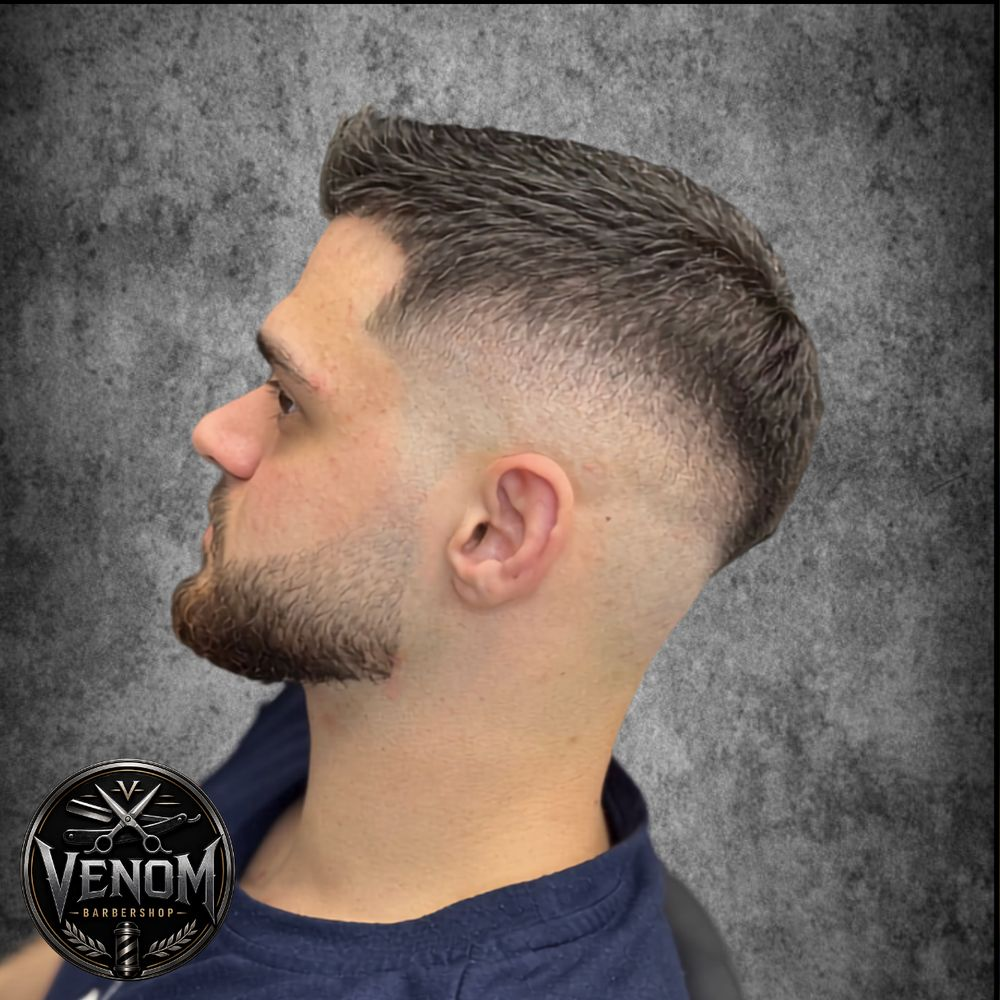
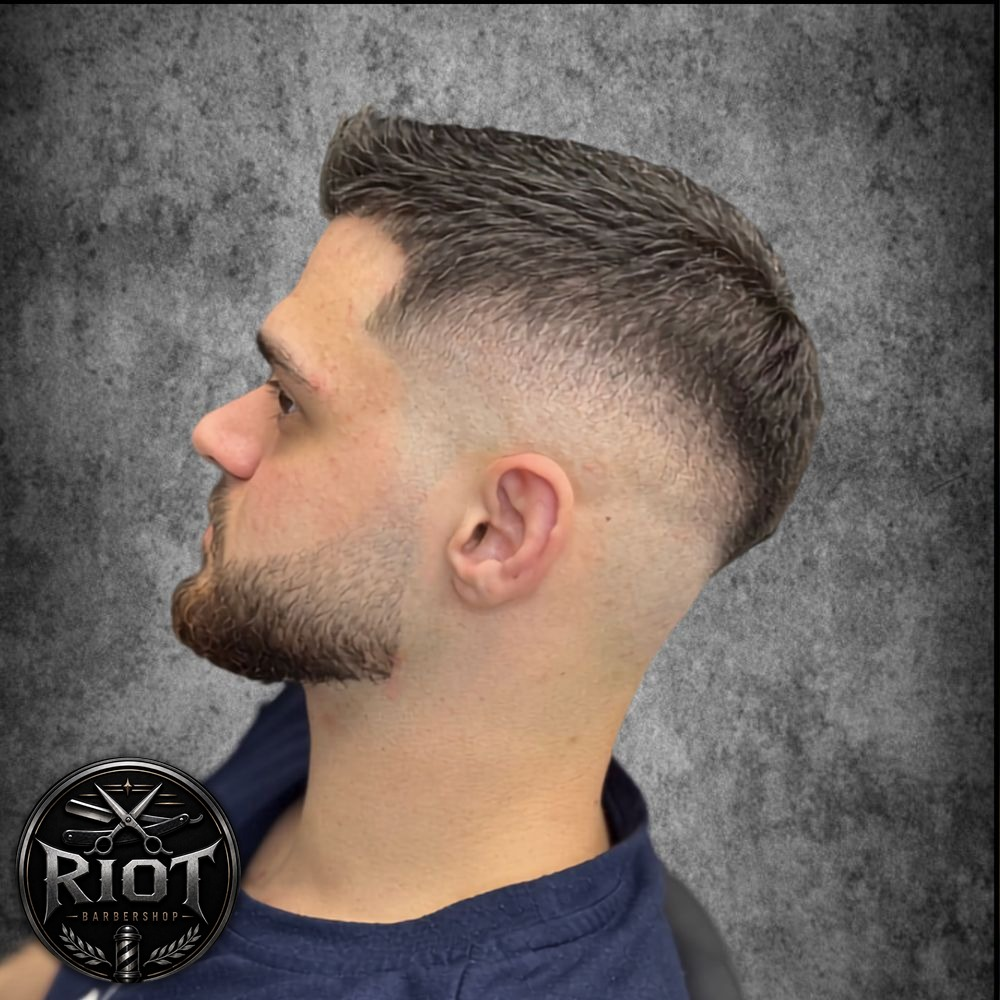
Galéria és motívum: VENOM-embléma cseréje RIOT-ra
A hat galériafotóba beégetett régi embléma helyére a RIOT-logó került,
a díszítő olló-motívum "V" monogramja helyére a logó csillaga.
A képhivatkozások ?v=2 jelölést kaptak, hogy a böngészők ne a
gyorsítótárazott régi képeket mutassák.

Changed region(s): [[0.0, 0.744, 0.248, 0.992]]

diff --git a/index.html b/index.html
@@ -6,13 +6,13 @@
 <title>RIOT Barbershop — Férfi fodrászat, Szeged</title>
 <meta name="description" content="RIOT Barbershop — férfi fodrászat Szegeden. Éles fade-ek, precíz szakállformázás, klasszikus borotválás. Kizárólag időpontfoglalással.">
 <meta name="theme-color" content="#050609">
-<link rel="icon" type="image/png" sizes="32x32" href="images/favicon-32.png">
-<link rel="icon" type="image/png" sizes="192x192" href="images/favicon-192.png">
-<link rel="apple-touch-icon" href="images/apple-touch-icon.png">
+<link rel="icon" type="image/png" sizes="32x32" href="images/favicon-32.png?v=2">
+<link rel="icon" type="image/png" sizes="192x192" href="images/favicon-192.png?v=2">
+<link rel="apple-touch-icon" href="images/apple-touch-icon.png?v=2">
 <meta property="og:type" content="website">
 <meta property="og:title" content="RIOT Barbershop — Férfi fodrászat, Szeged">
 <meta property="og:description" content="Éles fade-ek, precíz szakállmunka, klasszikus borotválás. Kizárólag időpontfoglalással.">
-<meta property="og:image" content="images/og.jpg">
+<meta property="og:image" content="images/og.jpg?v=2">
 <!-- Élesítéskor az og:image legyen abszolút URL (pl. https://domain.hu/images/og.jpg) -->
 <meta name="twitter:card" content="summary_large_image">
 <link rel="preconnect" href="https://fonts.googleapis.com">
@@ -494,7 +494,7 @@
     <a href="#arlista">Árlista</a>
   </nav>
   <a class="brand" href="#" aria-label="Vissza a tetejére — RIOT Barbershop">
-    <img src="images/logo.png" alt="" width="640" height="640">
+    <img src="images/logo.png?v=2" alt="" width="640" height="640">
   </a>
   <nav class="topnav nav-r" aria-label="Menü (jobb)">
     <a href="#galeria">Galéria</a>
@@ -518,7 +518,7 @@
   <div class="face-flare" aria-hidden="true"></div>
   <img class="venom-face" src="images/riot-face.png" alt="" aria-hidden="true" width="390" height="462">
   <div class="emblem">
-    <img src="images/logo.png" alt="RIOT Barbershop embléma" width="640" height="640">
+    <img src="images/logo.png?v=2" alt="RIOT Barbershop embléma" width="640" height="640">
   </div>
   <div class="kicker" lang="en">We are</div>
   <h1 class="title" data-text="RIOT">RIOT</h1>
@@ -545,7 +545,7 @@
     <div style="text-align:center">
       <div class="orn" aria-hidden="true">
         <span class="orn-rule"></span>
-        <img class="orn-mark" src="images/motif-tools.png" alt="" width="341" height="156" loading="lazy">
+        <img class="orn-mark" src="images/motif-tools.png?v=2" alt="" width="341" height="156" loading="lazy">
         <span class="orn-rule flip"></span>
       </div>
       <div class="eyebrow">Szolgáltatások</div>
@@ -575,12 +575,12 @@
 
 <!-- ================= BEMUTATKOZÁS ================= -->
 <section id="bemutatkozas">
-  <div class="wm" aria-hidden="true"><img src="images/motif-tools.png" alt="" width="341" height="156" loading="lazy"></div>
+  <div class="wm" aria-hidden="true"><img src="images/motif-tools.png?v=2" alt="" width="341" height="156" loading="lazy"></div>
   <div class="wrap">
     <div style="text-align:center">
       <div class="orn" aria-hidden="true">
         <span class="orn-rule"></span>
-        <img class="orn-mark" src="images/motif-tools.png" alt="" width="341" height="156" loading="lazy">
+        <img class="orn-mark" src="images/motif-tools.png?v=2" alt="" width="341" height="156" loading="lazy">
         <span class="orn-rule flip"></span>
       </div>
       <div class="eyebrow">Bemutatkozás</div>
@@ -618,19 +618,19 @@
     <div class="g-head rev">
       <div class="orn" aria-hidden="true">
         <span class="orn-rule"></span>
-        <img class="orn-mark" src="images/motif-tools.png" alt="" width="341" height="156" loading="lazy">
+        <img class="orn-mark" src="images/motif-tools.png?v=2" alt="" width="341" height="156" loading="lazy">
         <span class="orn-rule flip"></span>
       </div>
       <div class="eyebrow">Galéria</div>
       <h2>Friss munkák</h2>
     </div>
     <div class="galeria rev">
-      <button type="button" class="slot" data-label="Munka · 1" aria-label="1. munka megnyitása nagyban"><img src="images/kep-1.jpg" alt="Fodrász munka 1" width="1000" height="1000" loading="lazy"></button>
-      <button type="button" class="slot" data-label="Munka · 2" aria-label="2. munka megnyitása nagyban"><img src="images/kep-2.jpg" alt="Fodrász munka 2" width="1000" height="1000" loading="lazy"></button>
-      <button type="button" class="slot" data-label="Munka · 3" aria-label="3. munka megnyitása nagyban"><img src="images/kep-3.jpg" alt="Fodrász munka 3" width="1000" height="1000" loading="lazy"></button>
-      <button type="button" class="slot" data-label="Munka · 4" aria-label="4. munka megnyitása nagyban"><img src="images/kep-4.jpg" alt="Fodrász munka 4" width="1000" height="1000" loading="lazy"></button>
-      <button type="button" class="slot" data-label="Munka · 5" aria-label="5. munka megnyitása nagyban"><img src="images/kep-5.jpg" alt="Fodrász munka 5" width="1000" height="1000" loading="lazy"></button>
-      <button type="button" class="slot" data-label="Munka · 6" aria-label="6. munka megnyitása nagyban"><img src="images/kep-6.jpg" alt="Fodrász munka 6" width="1000" height="1000" loading="lazy"></button>
+      <button type="button" class="slot" data-label="Munka · 1" aria-label="1. munka megnyitása nagyban"><img src="images/kep-1.jpg?v=2" alt="Fodrász munka 1" width="1000" height="1000" loading="lazy"></button>
+      <button type="button" class="slot" data-label="Munka · 2" aria-label="2. munka megnyitása nagyban"><img src="images/kep-2.jpg?v=2" alt="Fodrász munka 2" width="1000" height="1000" loading="lazy"></button>
+      <button type="button" class="slot" data-label="Munka · 3" aria-label="3. munka megnyitása nagyban"><img src="images/kep-3.jpg?v=2" alt="Fodrász munka 3" width="1000" height="1000" loading="lazy"></button>
+      <button type="button" class="slot" data-label="Munka · 4" aria-label="4. munka megnyitása nagyban"><img src="images/kep-4.jpg?v=2" alt="Fodrász munka 4" width="1000" height="1000" loading="lazy"></button>
+      <button type="button" class="slot" data-label="Munka · 5" aria-label="5. munka megnyitása nagyban"><img src="images/kep-5.jpg?v=2" alt="Fodrász munka 5" width="1000" height="1000" loading="lazy"></button>
+      <button type="button" class="slot" data-label="Munka · 6" aria-label="6. munka megnyitása nagyban"><img src="images/kep-6.jpg?v=2" alt="Fodrász munka 6" width="1000" height="1000" loading="lazy"></button>
     </div>
     <p class="g-hint" aria-hidden="true">Kattints a képre a nagyításhoz</p>
   </div>
@@ -642,7 +642,7 @@
     <div class="book-box rev">
       <div class="seal" aria-hidden="true">
         <img class="laurel" src="images/motif-laurel.png" alt="" width="114" height="82" loading="lazy">
-        <img class="crest" src="images/motif-tools.png" alt="" width="341" height="156" loading="lazy">
+        <img class="crest" src="images/motif-tools.png?v=2" alt="" width="341" height="156" loading="lazy">
         <img class="laurel r" src="images/motif-laurel.png" alt="" width="114" height="82" loading="lazy">
       </div>
       <div class="eyebrow">Időpontfoglalás</div>
